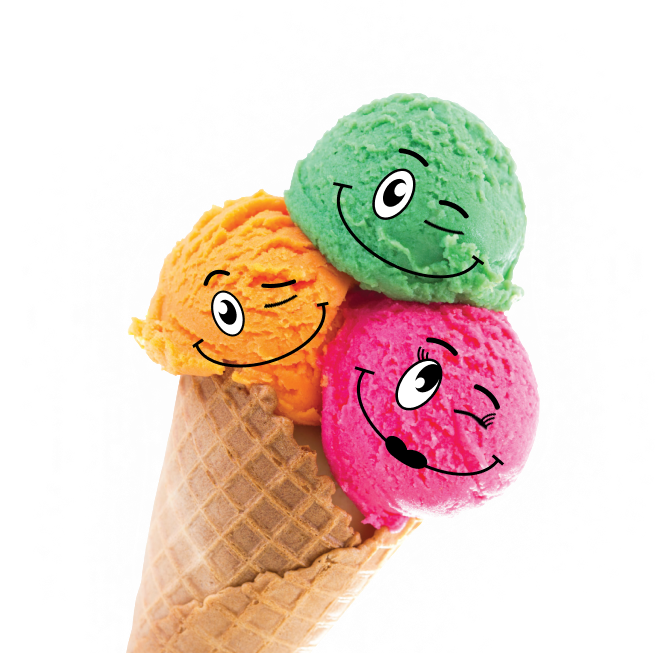
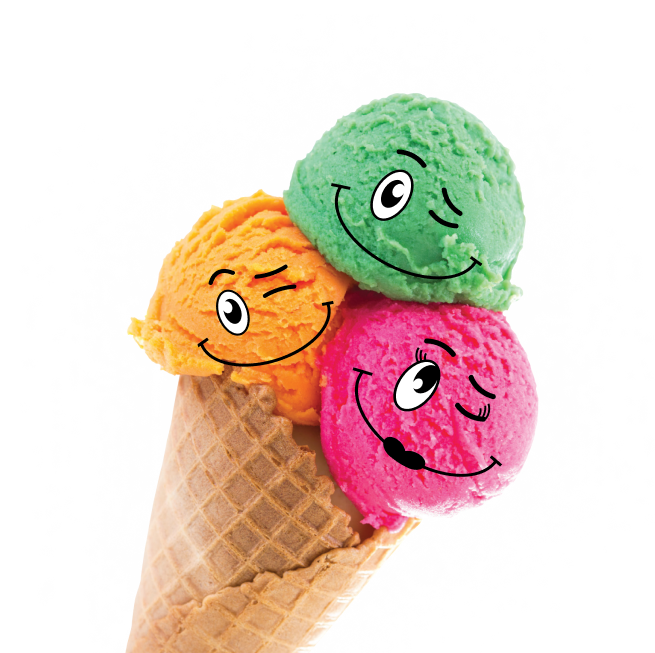
Доробив кліпання остаточна версія

diff --git a/src/index.js b/src/index.js
@@ -178,7 +178,17 @@ function modalLoad(refs) {
 
 const _pictureArr = document.querySelectorAll('.hero__company-info picture');
 _pictureArr[0].classList.add('visually-hidden');
-let prev_offset = 9999;
+let prev_offset = 0;
+
+setTimeout(() => {
+   _pictureArr[1].classList.add('visually-hidden');
+   _pictureArr[0].classList.remove('visually-hidden');
+   console.log('start');
+}, 500);
+setTimeout(() => {
+   _pictureArr[1].classList.remove('visually-hidden');
+   _pictureArr[0].classList.add('visually-hidden');
+}, 900);
 
 window.onscroll = () => changeHeaderBackground();
 function changeHeaderBackground() {
